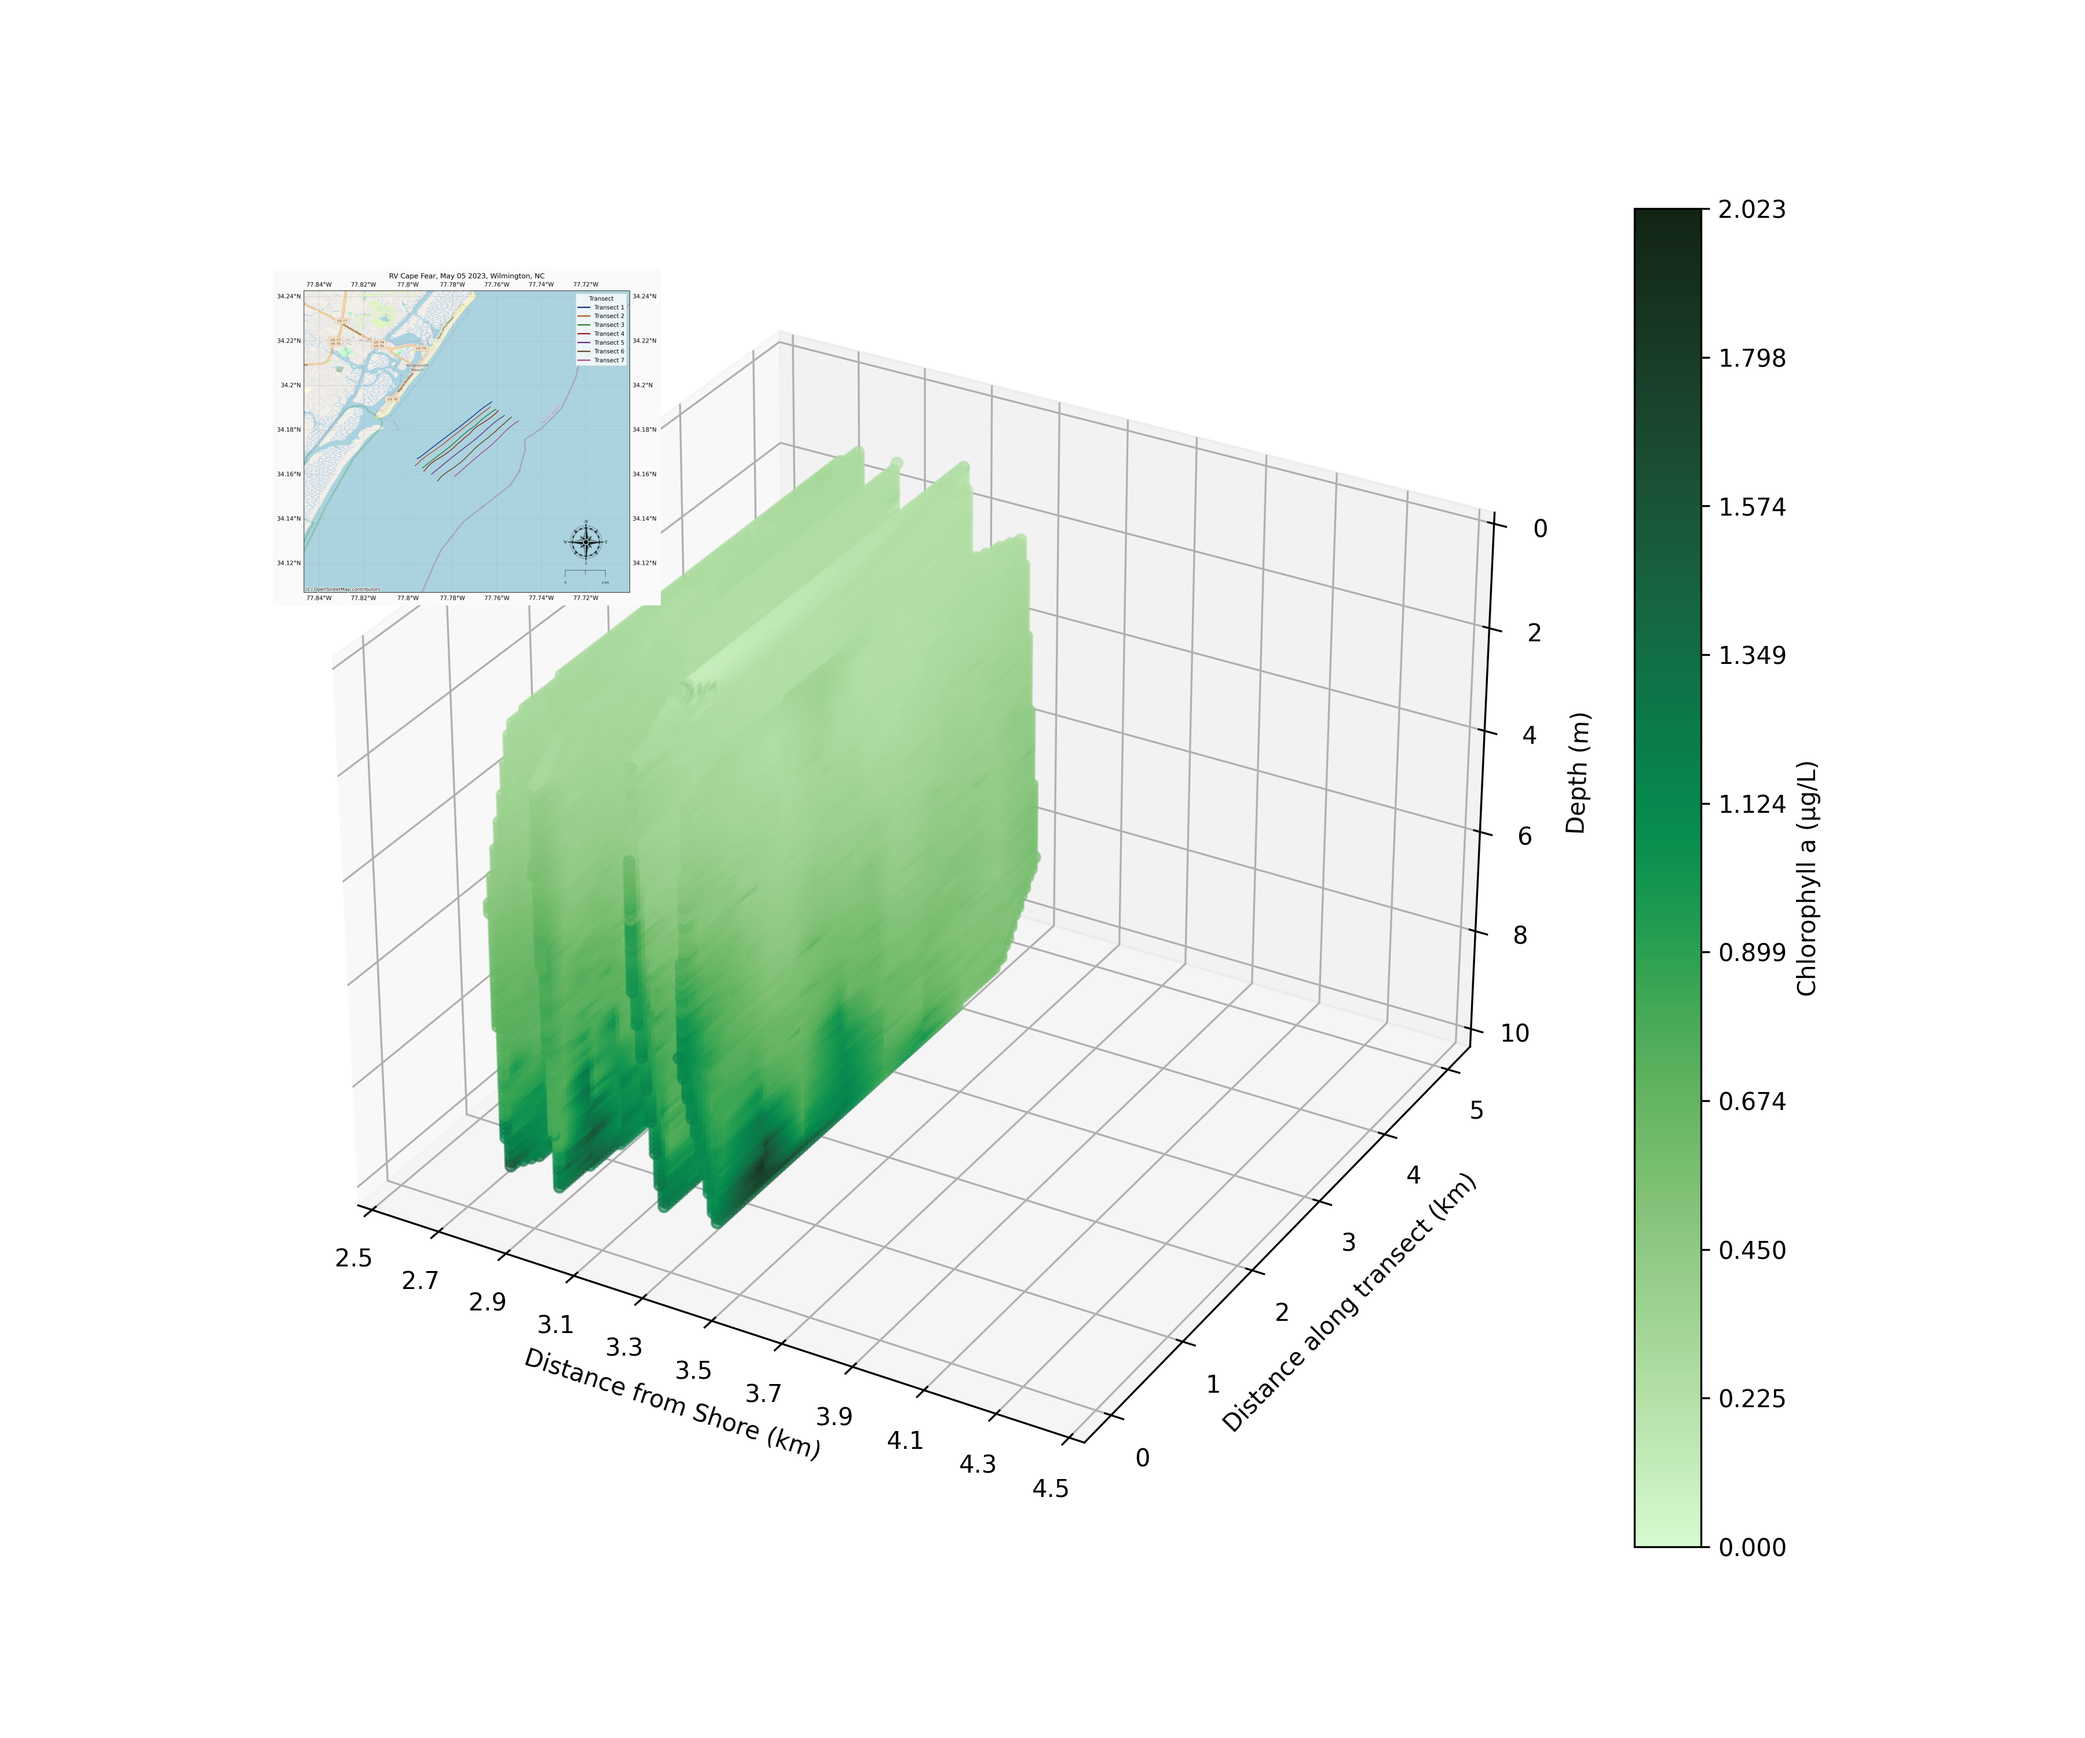
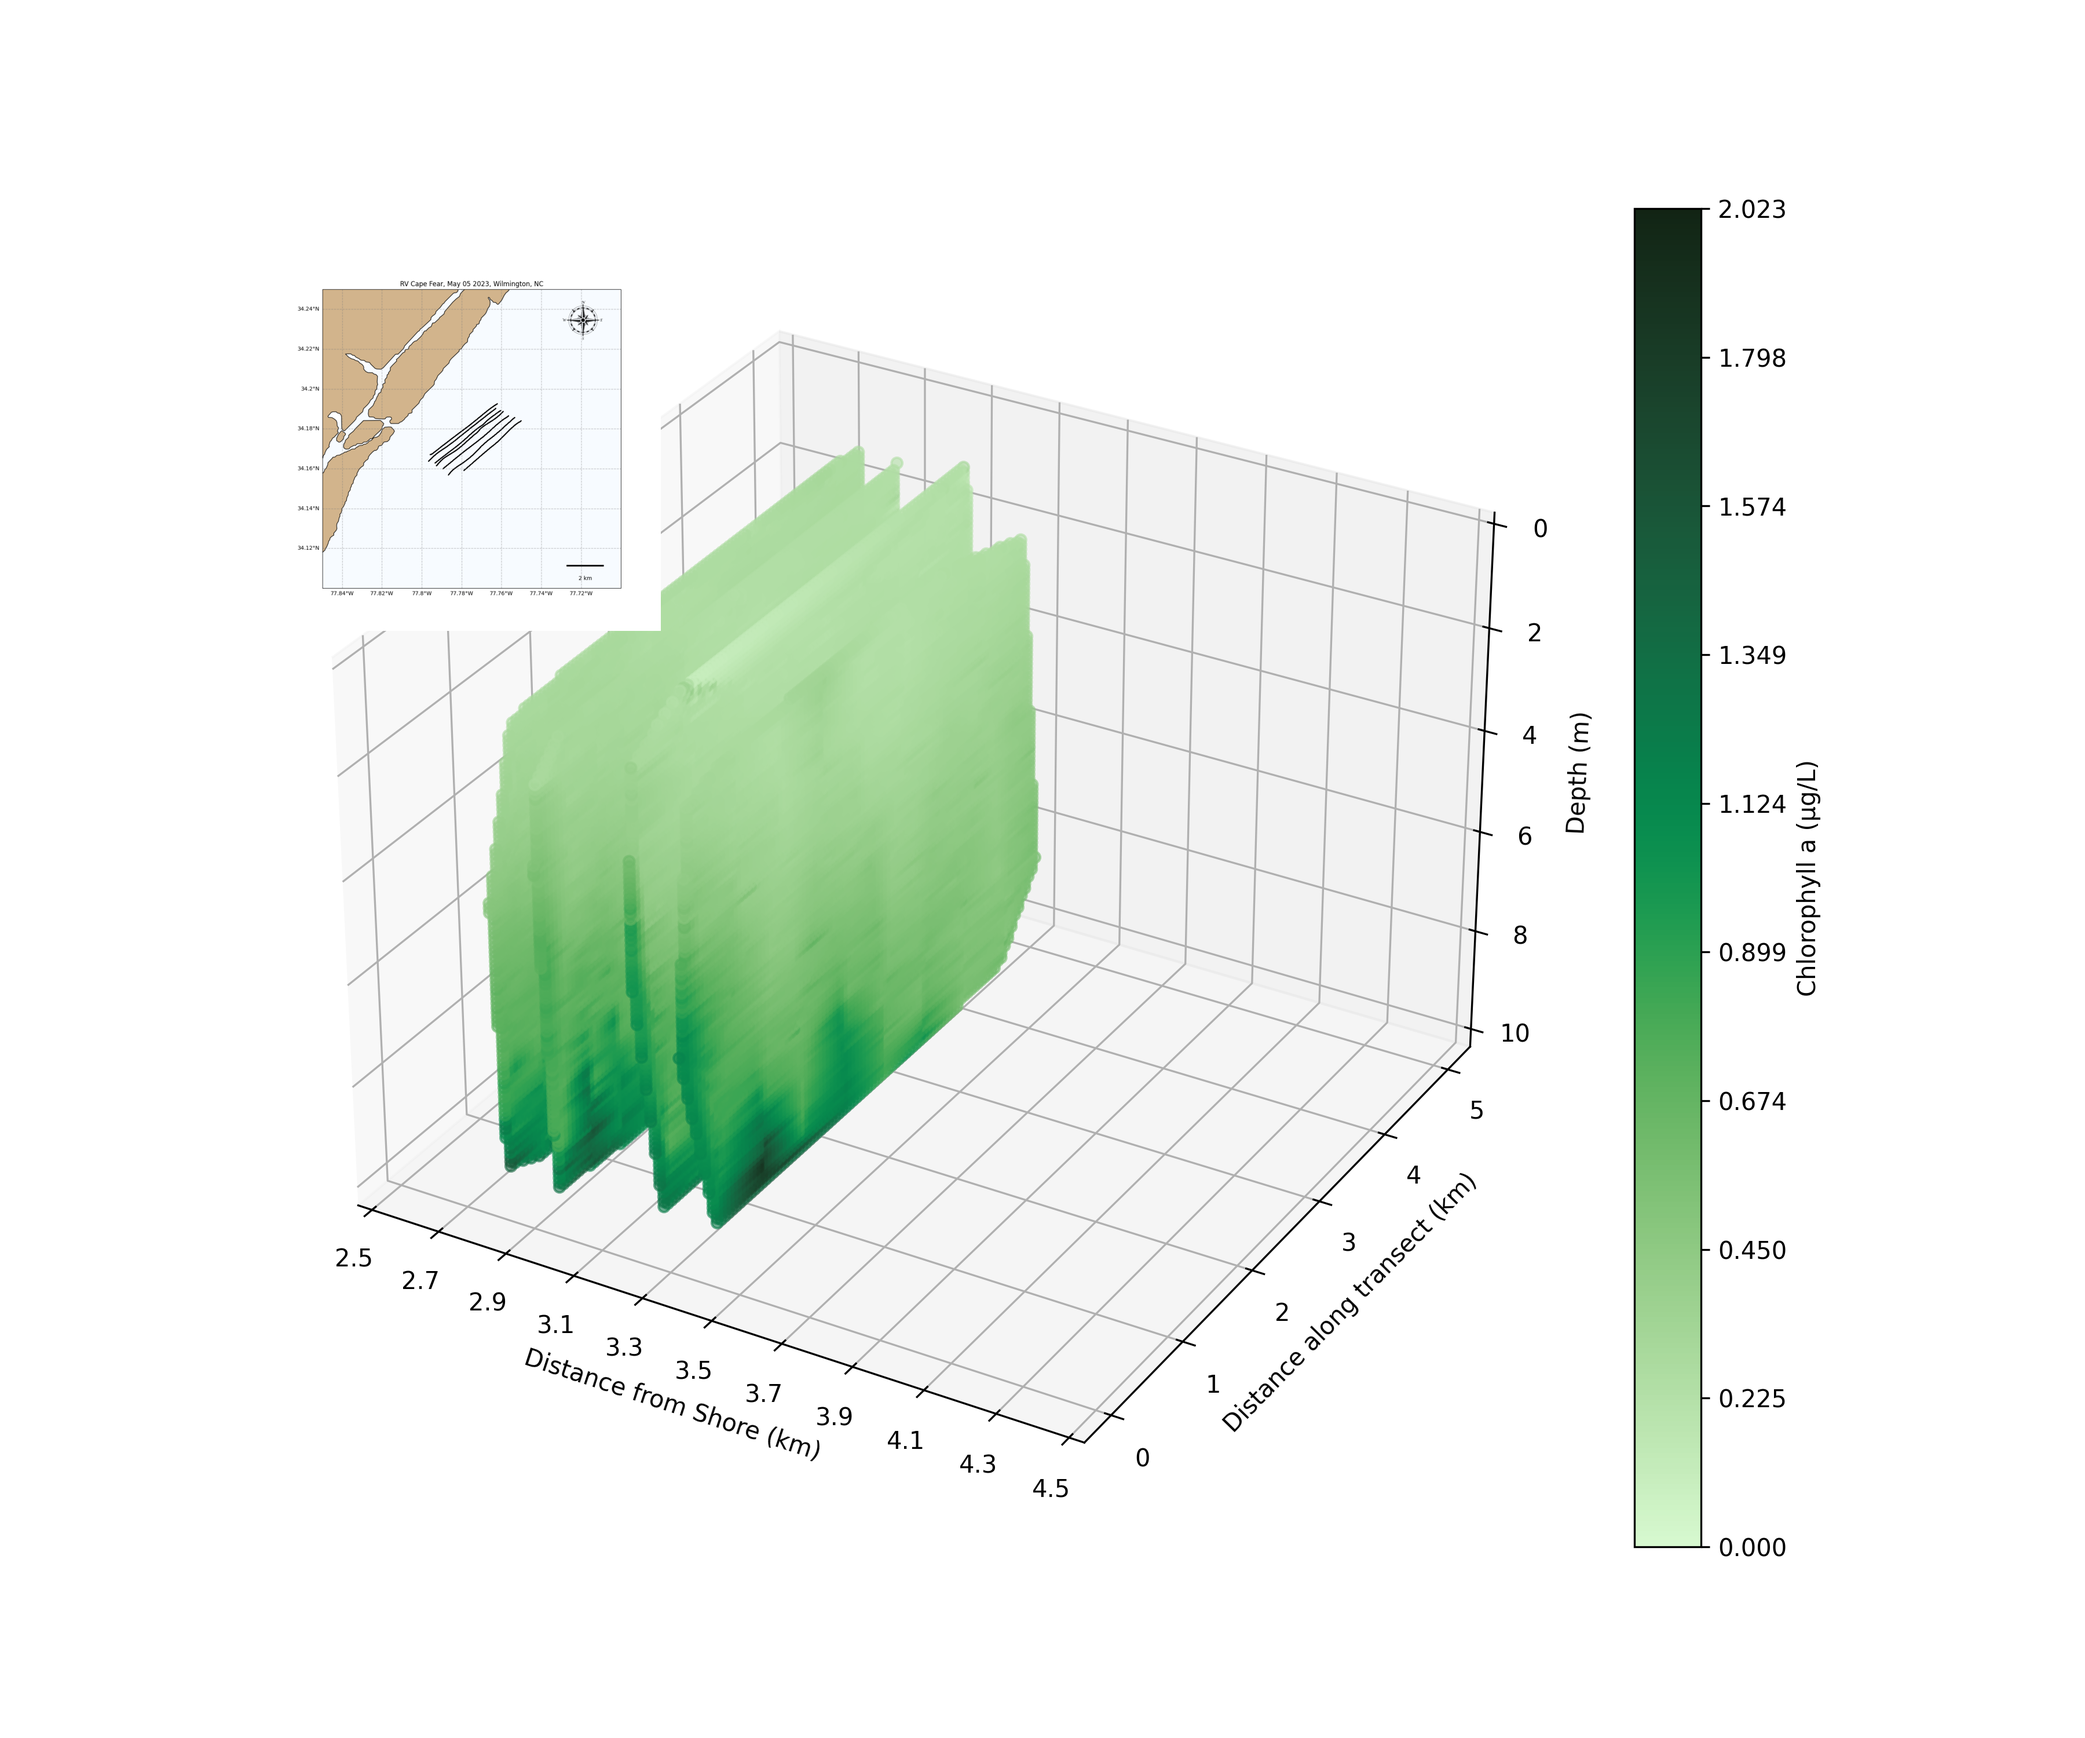
study site mapping updates

Changed region(s): [[0.1244, 0.155, 0.3111, 0.372]]

diff --git a/python_programs/studysite.py b/python_programs/studysite.py
@@ -1,11 +1,11 @@
 import matplotlib.pyplot as plt
 import cartopy.crs as ccrs
 import matplotlib.image as mpimg
-import geopandas as gpd
 import os
 from cartopy.io.shapereader import Reader
 from cartopy.feature import ShapelyFeature
 from cartopy.mpl.gridliner import LONGITUDE_FORMATTER, LATITUDE_FORMATTER
+from matplotlib.colors import LinearSegmentedColormap, BoundaryNorm
 
 # Setup the base directories
 SCRIPT_DIR = os.path.dirname(os.path.abspath(__file__))
@@ -19,14 +19,20 @@ os.environ["CARTOPY_DATA_DIR"] = NATURAL_EARTH_DIR
 STUDY_SITE_LON = -77.696587
 STUDY_SITE_LAT = 34.193111
 
-def draw_scale_bar(ax, location, length_km, color='black'):
-    lat, lon = location
-    length_deg = length_km / 111  # Conversion from km to degrees
-    ax.plot([lon, lon + length_deg], [lat, lat], color=color, linewidth=0.5, transform=ccrs.PlateCarree())
-    ax.plot([lon, lon], [lat, lat - 0.003], color=color, linewidth=0.5, transform=ccrs.PlateCarree())
-    ax.plot([lon + length_deg, lon + length_deg], [lat, lat - 0.003], color=color, linewidth=0.5, transform=ccrs.PlateCarree())
-    ax.text(lon, lat - 0.005, "0", va='top', ha='center', fontsize=5, transform=ccrs.PlateCarree())
-    ax.text(lon + length_deg, lat - 0.005, f"{length_km} km", va='top', ha='center', fontsize=5, transform=ccrs.PlateCarree())
+def add_scale_bar(ax, length_km, location=(0.05, 0.25), linewidth=1, color='black', fontsize=6):
+    """Adds a scale bar to a map, placed at a fraction of the axes size."""
+    # Convert length in kilometers to degrees (approximation)
+    length_deg = length_km / 111.32  # Rough conversion factor for degrees to kilometers at the equator
+
+    # Get axes size and compute position in degrees
+    x0, x1, y0, y1 = ax.get_extent()
+    x = x0 + (x1 - x0) * location[0]
+    y = y0 + (y1 - y0) * location[1]
+
+    # Draw the scale bar
+    ax.plot([x, x + length_deg], [y, y], transform=ccrs.Geodetic(), color=color, linewidth=linewidth)
+    # Label the scale bar
+    ax.text(x + length_deg / 2, y - 0.05, f'{length_km} km', verticalalignment='top', horizontalalignment='center', transform=ccrs.Geodetic(), color=color, fontsize=fontsize)
 
 def set_map_extent(ax, width_in_degrees, height_in_degrees):
     min_lon = STUDY_SITE_LON - width_in_degrees / 2
@@ -35,32 +41,39 @@ def set_map_extent(ax, width_in_degrees, height_in_degrees):
     max_lat = STUDY_SITE_LAT + height_in_degrees / 2
     ax.set_extent([min_lon, max_lon, min_lat, max_lat])
 
-def draw_scale_bar(ax, location, length_km, color='black'):
-    lat, lon = location
-    length_deg = length_km / 111  # Conversion from km to degrees
-    half_length_deg = length_deg / 2  # Midpoint for the minor tick
-
-    ax.plot([lon, lon + length_deg], [lat, lat], color=color, linewidth=0.5, transform=ccrs.PlateCarree())
-
-    ax.plot([lon, lon], [lat, lat - 0.003], color=color, linewidth=0.5, transform=ccrs.PlateCarree())
-    ax.plot([lon + length_deg, lon + length_deg], [lat, lat - 0.003], color=color, linewidth=0.5, transform=ccrs.PlateCarree())
-
-    ax.plot([lon + half_length_deg, lon + half_length_deg], [lat, lat - 0.002], color=color, linewidth=0.4, transform=ccrs.PlateCarree())
-
-    ax.text(lon, lat - 0.005, "0", va='top', ha='center', fontsize=5, transform=ccrs.PlateCarree())
-    ax.text(lon + length_deg, lat - 0.005, f"{length_km} km", va='top', ha='center', fontsize=5, transform=ccrs.PlateCarree())
-
 def plot_study_site():
     fig, ax = plt.subplots(figsize=(10, 6), subplot_kw={'projection': ccrs.PlateCarree()})
     ax.set_extent([STUDY_SITE_LON - 5, STUDY_SITE_LON + 5, STUDY_SITE_LAT - 5, STUDY_SITE_LAT + 5])
+    
+    compass_rose_image = mpimg.imread(COMPASS_ROSE_PATH)
+    x0, x1, y0, y1 = ax.get_extent()
+    compass_width = (x1 - x0) * 0.1
+    compass_height = (y1 - y0) * 0.1
+    compass_x = x0 + compass_width * 0.75
+    compass_y = y1 - compass_height * 0.75
+    ax.imshow(compass_rose_image, extent=[compass_x - compass_width / 2, compass_x + compass_width / 2, compass_y - compass_height / 2, compass_y + compass_height / 2], transform=ccrs.PlateCarree(), zorder=10)
+    
+    add_scale_bar(ax, 100, location=(0.05, 0.05), color='black', fontsize=6)  # Placing the bar at 5% from the left and bottom of the map
 
-    # Define feature types and associated colors for coastline, land, and new layers
     feature_types = {
         'coastline': 'none',
         'land': '#c8c365',  # Land color
         'geography_marine_polys': '#a6cee3',  # Light blue for marine areas
         'geography_regions_polys': '#bdbdbd'  # Grey for geographic regions
     }
+
+
+    # Create custom colormap
+    colors = ['#f7fbff', '#deebf7', '#c6dbef', '#9ecae1', '#6baed6', '#4292c6', '#2171b5', '#08519c']
+    levels = [0, 200, 1000, 2000, 3000, 4000, 5000, 6000]
+    cmap = LinearSegmentedColormap.from_list('bathymetry', colors, N=len(levels))
+    norm = BoundaryNorm(levels, ncolors=cmap.N, clip=True)
+
+    # Add color bar
+    sm = plt.cm.ScalarMappable(cmap=cmap, norm=norm)
+    sm.set_array([])  # This is necessary because our data is not on a regular grid.
+    cb = plt.colorbar(sm, ax=ax, boundaries=levels, ticks=levels)
+    cb.set_label('Depth (m)')
 
     # Load non-bathymetry features including new geography layers
     for feature_name in ['coastline', 'land', 'geography_marine_polys', 'geography_regions_polys']:
@@ -75,20 +88,19 @@ def plot_study_site():
             print(f"Failed to load {feature_name}: {e}")
 
     # Bathymetry colors and files setup
-    bathymetry_colors = [
-        '#f7fbff', '#deebf7', '#c6dbef', '#9ecae1', '#6baed6',
-        '#4292c6', '#2171b5', '#08519c', '#08306b', '#042040',
-        '#02132c', '#010b17'
-    ]
-    bathymetry_files = [
-        'ne_10m_bathymetry_L_0', 'ne_10m_bathymetry_K_200', 'ne_10m_bathymetry_J_1000',
-        'ne_10m_bathymetry_I_2000', 'ne_10m_bathymetry_H_3000', 'ne_10m_bathymetry_G_4000',
-        'ne_10m_bathymetry_F_5000', 'ne_10m_bathymetry_E_6000', 'ne_10m_bathymetry_D_7000',
-        'ne_10m_bathymetry_C_8000', 'ne_10m_bathymetry_B_9000', 'ne_10m_bathymetry_A_10000'
+    bathymetry_data = [
+        ('ne_10m_bathymetry_L_0', '#f7fbff', '0m'),
+        ('ne_10m_bathymetry_K_200', '#deebf7', '200m'),
+        ('ne_10m_bathymetry_J_1000', '#c6dbef', '1000m'),
+        ('ne_10m_bathymetry_I_2000', '#9ecae1', '2000m'),
+        ('ne_10m_bathymetry_H_3000', '#6baed6', '3000m'),
+        ('ne_10m_bathymetry_G_4000', '#4292c6', '4000m'),
+        ('ne_10m_bathymetry_F_5000', '#2171b5', '5000m'),
+        ('ne_10m_bathymetry_E_6000', '#08519c', '6000m')
     ]
 
     # Load bathymetry files
-    for file_name, color in zip(bathymetry_files, bathymetry_colors):
+    for file_name, color, label in bathymetry_data:
         shapefile_path = os.path.join(NATURAL_EARTH_DIR, 'ne_10m_bathymetry_all', f'{file_name}.shp')
         try:
             shape_feature = ShapelyFeature(Reader(shapefile_path).geometries(),
@@ -101,12 +113,8 @@ def plot_study_site():
 
     # Additional map setup
     plt.plot(STUDY_SITE_LON, STUDY_SITE_LAT, 'ro', transform=ccrs.PlateCarree(), label="R/V Cape Fear cruises")
-    plt.legend(loc='lower right')
+    plt.legend(loc='lower right', fontsize=8)
     plt.title("RV Cape Fear, May 03-05 2023, Wilmington, NC")
-    compass_rose_image = mpimg.imread(COMPASS_ROSE_PATH)
-    ax.imshow(compass_rose_image, extent=[STUDY_SITE_LON - 4.5, STUDY_SITE_LON - 3.0, STUDY_SITE_LAT + 3.0, STUDY_SITE_LAT + 4.5], transform=ccrs.PlateCarree(), zorder=10)
-
-    draw_scale_bar(ax, (STUDY_SITE_LAT + 2.75, STUDY_SITE_LON - 4.25), 100, color='black')  # 100 km scale bar
 
     gl = ax.gridlines(draw_labels=True, linewidth=1, color='gray', alpha=0.5, linestyle='--')
     gl.top_labels = False

diff --git a/python_programs/masonboro_mosaic.py b/python_programs/masonboro_mosaic.py
@@ -15,7 +15,7 @@ SCRIPT_DIR = os.path.dirname(os.path.abspath(__file__))
 DATA_DIR = os.path.join(SCRIPT_DIR, '..', '..', 'data')
 ACROBAT_DIR = os.path.join(DATA_DIR, 'acrobat', 'transects', 'processed')
 SATELLITE_IMAGES_DIR = os.path.join(DATA_DIR, 'sat_default', 'crops')
-SAVE_DIR = os.path.join(SCRIPT_DIR, '..', 'visualization', 'maps', 'masonboro')
+SAVE_DIR = os.path.join(SCRIPT_DIR, '..', 'visualization', 'maps')
 os.makedirs(SAVE_DIR, exist_ok=True)
 
 TRANSECTS = [os.path.join(ACROBAT_DIR, file) for file in os.listdir(ACROBAT_DIR) if file.startswith('transect_') and file.endswith('.csv')]
@@ -59,20 +59,18 @@ def plot_transects(ax, dfs, colors):
         gdf = gpd.GeoDataFrame([1], geometry=[line], crs="EPSG:4326")
         gdf.plot(ax=ax, color=colors[i], linewidth=1)
 
-def draw_scale_bar(ax, location, length_km, color='black'):
-    lat, lon = location
-    length_deg = length_km / 111  # Conversion from km to degrees
-    half_length_deg = length_deg / 2  # Midpoint for the minor tick
-
-    ax.plot([lon, lon + length_deg], [lat, lat], color=color, linewidth=0.5, transform=ccrs.PlateCarree())
-
-    ax.plot([lon, lon], [lat, lat - 0.003], color=color, linewidth=0.5, transform=ccrs.PlateCarree())
-    ax.plot([lon + length_deg, lon + length_deg], [lat, lat - 0.003], color=color, linewidth=0.5, transform=ccrs.PlateCarree())
-
-    ax.plot([lon + half_length_deg, lon + half_length_deg], [lat, lat - 0.002], color=color, linewidth=0.4, transform=ccrs.PlateCarree())
-
-    ax.text(lon, lat - 0.005, "0", va='top', ha='center', fontsize=5, transform=ccrs.PlateCarree())
-    ax.text(lon + length_deg, lat - 0.005, f"{length_km} km", va='top', ha='center', fontsize=5, transform=ccrs.PlateCarree())
+def add_scale_bar(ax, length, location, linewidth=3):
+    # Get the extent of the projected map
+    x0, x1, y0, y1 = ax.get_extent()
+    # Set the length of the scale bar
+    scale_length = length / 111.32  # degrees per km at the equator (rough approximation)
+    # Set the location
+    x = x0 + (x1 - x0) * location[0]
+    y = y0 + (y1 - y0) * location[1]
+    # Draw the scale bar
+    ax.plot([x, x - scale_length], [y, y], transform=ccrs.Geodetic(), color='black', linewidth=linewidth)
+    # Label the scale bar
+    ax.text(x - scale_length / 2, y - 0.005, f'{length} km', verticalalignment='top', horizontalalignment='center', transform=ccrs.Geodetic(), color='black')
 
 # -----------------
 # MAIN FUNCTION
@@ -126,7 +124,7 @@ def main():
         ax.imshow(compass_rose_image, extent=[compass_position[0], compass_position[0] + compass_size, compass_position[1], compass_position[1] + compass_size], transform=ccrs.PlateCarree(), origin='upper')
 
         scale_bar_position = (compass_position[1] - 0.005, compass_position[0])
-        draw_scale_bar(ax, scale_bar_position, length_km=2)
+        add_scale_bar(ax, 2, location=scale_bar_position)
 
         # Set latitude and longitude tick marks
         ax.set_xticks([min_lon, max_lon], crs=ccrs.PlateCarree())
@@ -145,7 +143,7 @@ def main():
     # Adjust subplot parameters to reduce white space
     plt.subplots_adjust(wspace=-0.5, hspace=0.2)
 
-    plt.savefig(os.path.join(SAVE_DIR, "masonboro_mosaic.png"), dpi=600, bbox_inches='tight')
+    plt.savefig(os.path.join(SAVE_DIR, "mosaic_masonboro.png"), dpi=600, bbox_inches='tight')
     plt.close(fig)
 
 if __name__ == '__main__':

diff --git a/python_programs/transects.py b/python_programs/transects.py
@@ -3,6 +3,7 @@ import matplotlib.image as mpimg
 import cartopy.crs as ccrs
 import cartopy.feature as cfeature
 import pandas as pd
+import numpy as np
 import os
 
 # Set up directories
@@ -35,14 +36,18 @@ fig, ax = plt.subplots(figsize=(10, 10), subplot_kw={'projection': ccrs.PlateCar
 ax.set_extent(extent)
 
 # Add GSHHS high-resolution coastline
-ax.add_feature(cfeature.GSHHSFeature(scale='full', levels=[1], facecolor='tan'))
+ax.add_feature(cfeature.GSHHSFeature(scale='full', levels=[1], facecolor='#bdbdbd'))
 
 # Change ocean color to a more distinct blue
 ax.add_feature(cfeature.OCEAN, facecolor='#f7fbff')
 
-# Plot transects
-ax.scatter(data['lon'], data['lat'], s=0.01, color='black', transform=ccrs.Geodetic())
+transect_colors = plt.cm.viridis(np.linspace(0, 1, 7))  # Use a color map to generate 7 distinct colors
+for i, transect_id in enumerate(sorted(data['transect_id'].unique())):
+    transect_data = data[data['transect_id'] == transect_id]
+    ax.plot(transect_data['lon'], transect_data['lat'], color=transect_colors[i], label=f'Transect {transect_id}', transform=ccrs.Geodetic())
 
+# Add legend for transects
+ax.legend(loc='upper left', title='Transects')
 # Set up grid lines and tick marks
 gl = ax.gridlines(crs=ccrs.PlateCarree(), draw_labels=True, linewidth=1, color='gray', alpha=0.5, linestyle='--')
 gl.top_labels = False
